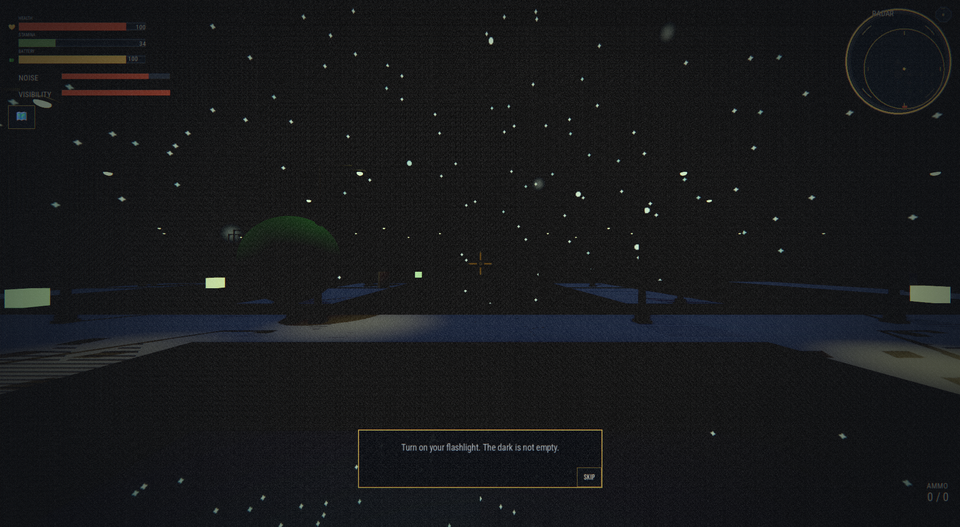
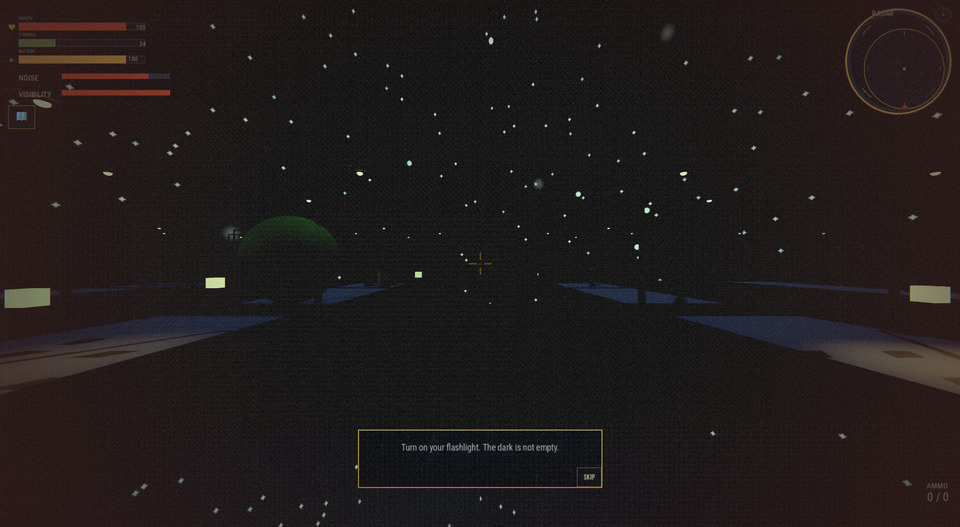
fix(tz): close C8 verifier FAKE/PARTIAL at root (S03 G12b A03 G17)
- S03: vignette shader dropped COLOR.rgb and the pulse was normalized
  against noise_radius (10.4) instead of the 0-1 noise level, so the
  ember pulse never showed. tz_verify now measures frame-edge warmth.
- G12b: flicker cleared only at stability bonus >= 1.0, but L5 is 0.5;
  now keyed on max level, checked through apply_flashlight_upgrades.
- A03: stealth/walk/run map to walk/jog/sprint files; single-sample
  surfaces vary by pitch; the probe now exits 1 on a missing speed.
- G17: deletes also remove .bak2/.bak3, which the loader falls back to.
- Ledgers: G24 DECIDED, C03 DEFERRED-STRUCTURAL, CORRECTION_LOG 15-21,
  matrix spine/extra recount, internal verification report.

tz_verify 15 checks fails=0; check.sh full 42 green; bot 1/3 won,
11/11 FULL on all seeds, stalls are the known boss-phase type.

diff --git a/docs/CLOSURE_VERIFICATION_INTERNAL.md b/docs/CLOSURE_VERIFICATION_INTERNAL.md
@@ -1,0 +1,107 @@
+# Closure verification (internal)
+
+Independent re-check of the v8.0.0-rc1 closure claims at HEAD `27ba1d5`, done on 2026-09-25.
+The method was static only. Commit existence: `git merge-base --is-ancestor <hash> HEAD`. Fix
+survival: every non-trivial added line (>=15 chars, non-comment, non-.md) of each cited commit was
+looked up in the HEAD version of its file. Lines that did not survive were read by hand. Semantics
+were read file by file. Godot was not run, so runtime-only claims (bot n/3, suite `fails=0 x3`,
+windowed magenta A/B) are recorded as not re-run and are not counted against a row.
+
+All 47 cited ARENA_CLOSURE commits exist on HEAD. Added-line survival is 90-100% for every
+commit, and every line that did not survive was a later i18n value edit or a test refactor. One
+side effect: `bash tools/check.sh --static` regenerated `docs/artifacts/content-depth/i18n_only_texts.md`
+(112 -> 113 keys, `FIRST_RESTORE`), which means the committed copy is stale. I reverted it to HEAD.
+
+| Source | Item | Verdict | Evidence (file:line / command output) |
+|---|---|---|---|
+| ARENA A | B1 finale boss timing `5e1093b` | CONFIRMED | 39/39 added lines present |
+| ARENA A | B2 document id before add_child `7034bcd` | CONFIRMED | 32/32 |
+| ARENA A | B3 skill bonus compounding `afadb4b` | CONFIRMED | 42/42 |
+| ARENA A | B4 reject checksum-only / no progress_hmac `92934a7` (+`ac877a5`) | CONFIRMED | save_system.gd:199 rejects missing `hmac`; :222 missing `progress_hmac` resets power/progress. Note: the stale comment at save_system.gd:116-120 still says legacy checksum is accepted |
+| ARENA A | B5 NG+ bypasses `fe7ef0e` | CONFIRMED | new_game_plus_ui.gd:55 `at_cap = ng >= max_ng or _activated_this_visit`; 56/58 lines present (2 attack_sim lines refactored into `_write_ngp_test_file`) |
+| ARENA A | B6 signed daily `e9686d7` | CONFIRMED | 28/28 |
+| ARENA A | B7 duplicate autoloads `bb662b4` | CONFIRMED | HEAD project.godot [autoload] has exactly one RewardsManager (:109) and one RandomEvents (:110) |
+| ARENA A | B8 kills pay wallet `1cf3aaf` | CONFIRMED | 28/28 |
+| ARENA A | B9+B14 atomic try_add `36d44be` | CONFIRMED | 84/84 |
+| ARENA A | B10 district-enter save order `cc1e0b3` | CONFIRMED | 46/46 |
+| ARENA A | B11 lock in transition_to `d7a0692` | CONFIRMED | 22/22; district_manager.gd:84-90 |
+| ARENA A | B12 streetlight event once `c814621` | CONFIRMED | 21/21 |
+| ARENA A | B13 import refresh / autosave slot `a36ac8b` | CONFIRMED | 43/43 |
+| ARENA A | B15 fall-recovery net on spawn `8c99689` | CONFIRMED | player_3d.gd:113,360; the suite assertion was reworked to a sentinel check, _qa_headless_suite_runner.gd:662-673 |
+| ARENA A | B16 offline not networked `cb73c83` | CONFIRMED | 14/14 |
+| ARENA A | Q1 heartbeat split `a0ec4ee` | CONFIRMED | 35/35 |
+| ARENA B | P-01 legacy checksum `92934a7` | CONFIRMED | save_system.gd:199 |
+| ARENA B | P-03/P-04/P-06/P-07 `9b7a46b` | CONFIRMED | 116/116 |
+| ARENA B | P-05 daily tamper `e9686d7` + wall-clock defer | CONFIRMED | Tamper fix present; the defer reason (client clock) is honest |
+| ARENA B | R-01 watchdog `2278cf9` | CONFIRMED | HEAD project.godot:113 `IntegrityGuard` autoload |
+| ARENA B | R-02 speed watchdog defer | CONFIRMED | Honest: integrity_guard.gd:83 covers only non-finite / y<=-50 |
+| ARENA B | R-08, D-01, D-02 inherent defers | CONFIRMED | SECURITY_THREAT_MODEL.md:67,81 document the client-side key limit |
+| ARENA B | D-03 PCK key owner defer | CONFIRMED | release_export_check.py:37-40 forbids a committed `encryption_key` |
+| ARENA B | R-03 position/district `60a289b` | CONFIRMED | 39/39 |
+| ARENA B | D-04 debug keystore creds `60a289b` | CONFIRMED | HEAD export_presets.cfg:23-28 empty; no keystore tracked. The debug creds are still in pre-`60a289b` history |
+| ARENA B | R-07 LAN payloads `cef6ae6` | CONFIRMED | 26/26 in lan_network.gd |
+| ARENA B | C-08 release-export gate `a453425` | CONFIRMED | tools/check.sh:250-253 |
+| ARENA C | R0 magenta, root cause `bafb740` | PARTIAL | The fix is present: all 11 `lut_*.png.import` are `importer="3d_texture"`, and check.sh:200-204 pins it. The claimed "0.01-0.30%" is not what the committed HEAD frames show: `visual_truth_gate.py docs/stills/tzverify/*.png` gives world magenta 0.17-0.66%, 6/11 frames are above 0.30%, and S03_noise_vignette FAILs at 0.66% |
+| ARENA C | RENDERING_DIAGNOSIS (b) Lossless A/B | CONFIRMED | Part of `bafb740` (12 files); the A/B is runtime and was not re-run |
+| ARENA C | RENDERING_DIAGNOSIS (d) SSR/SSAO tier-driven | CONFIRMED | world_env_setup.gd:182-185 reads ssao/ssil/volumetric from visual_quality.tres |
+| ARENA C | TG-SEE/HEAR/PLAY `5257745`,`4c6ca10` | CONFIRMED | 110/111 + 7/7 (the one missing line was replaced by PIL HSV, visual_truth_gate.py:84) |
+| ARENA C | CHALLENGE-01 `fe3007a` | CONFIRMED | 19/21, 2 message-format lines reworded |
+| ARENA C | CHALLENGE-02 partial `c783544` | CONFIRMED | Stated honestly as Partial; X21 is BUG in the matrix |
+| ARENA C | CHALLENGE-03 settings_full deleted `0f9685a` | CONFIRMED | File absent; no non-doc reference |
+| ARENA C | MISSED-00..05 | CONFIRMED | FUNCTION_MATRIX AL35/AL50/AL55 are "WORKS (smoke)" and say "NO behavioural assertion"; AL57 P2q; IN89 P1b. Matches the claim wording |
+| ARENA C | I18N native pass `43c9ecd` / truth gate `21c6563` | CONFIRMED | 159/159; the gate is 12/12 now |
+| ARENA D | Items 1,6 `855a278` | CONFIRMED | 5/5 |
+| ARENA D | Item 2 `1fcf157` | CONFIRMED | exit 3 = SKIP in check.sh |
+| ARENA D | Item 3 `bbdaa8e` | CONFIRMED | 11/11 |
+| ARENA D | Items 4,5,7,9,10,11,14,15 `d06fe48` | CONFIRMED | 16/16 (message mislabel acknowledged in CORRECTION_LOG #10) |
+| ARENA D | Item 8 `53353d5` | CONFIRMED | 13/13 |
+| ARENA D | Item 12 `2948e23` | CONFIRMED | `BTN_ONE_MORE_RUN` is absent from data/ and scripts/ |
+| ARENA D | Item 13 `363add0` | CONFIRMED | visual_truth_gate.py:84 `img.convert("HSV")` |
+| ARENA D | §2 BLACK_FAIL_PCT 40 `7bbc0ca` | CONFIRMED | visual_truth_gate.py:50 |
+| ARENA D | §3 symptom masks reviewed | CONFIRMED | Doc-only claim, consistent with CORRECTION_LOG #6 |
+| ARENA Design | P1 `2a88503` | CONFIRMED | silent_steps now scales speed_noise (player_3d.gd) |
+| ARENA Design | P2 `c2dbeb4`,`4e7560e` | CONFIRMED | quiet_pace skill_tree_manager.gd:168,289; player_3d.gd:693 |
+| ARENA Design | P3 `4e7560e` | CONFIRMED | 334/340; the missing lines are later locale rewordings |
+| ARENA Design | P4 `f9bbfd7` | CONFIRMED | 12/12 |
+| ARENA Design | P5 `24ceb68` | CONFIRMED | player_3d.gd:1171-1175 `refresh_battery_max()` composes both sources |
+| ARENA Design | P6/P7 `8f48faf` | CONFIRMED | 31/31 |
+| ARENA Design | P8 `ee273ee`,`24ceb68` | CONFIRMED | boss energy ball goes through `_telegraph.warn` |
+| TZ | A02 crossfade 2.0 | CONFIRMED | music_manager.gd:118 `FADE_TIME = 2.0`, used :209,:262-263; tz_verify :85 |
+| TZ | A03 footsteps 6x3, "stealth/walk/run distinct samples" | FAKE | footstep_system.gd:33,129: STEALTH and WALK share the "walk" sample. :35-42: per-speed files exist only for concrete/metal/wood (+grass/gravel/tile); GDD asphalt/puddle/glass have one sample at every speed. The probe _footstep_check.gd:12 prints `DONE fails=0` unconditionally after `demo()` (assert-based), so it cannot fail |
+| TZ | A04 audio caps (by role) | CONFIRMED | du: music 38M + ambience 47M = 85M < 100; sfx 7M + one_shots 2M + ui/jingles ~2M < 50; _pre_norm excluded (export_presets.cfg:3) |
+| TZ | V02 no neon/#fff | CONFIRMED | boss_3d.gd emission `#b4452f`, energy-ball light `#c9a24a`; V02_energy_ball.png PASS 0.41% |
+| TZ | V05 shadow 2048 | CONFIRMED | HEAD project.godot:296 `=2048` (.mobile 1024); tz_verify :88 |
+| TZ | V01 no day | CONFIRMED | day_night.gd (31 lines) has no sky/ambient painter left |
+| TZ | G02 headbob 0.1 | CONFIRMED | camera_follow_3d.gd:22 `SPRINT_BOB_AMP = 0.1`. tz_verify :114 only bounds the span to 0.02-0.25, which is looser than the claim |
+| TZ | G03 sprint FOV +5 | CONFIRMED | camera_follow_3d.gd:24,91. tz_verify :112 only asserts >3 |
+| TZ | G06 sprint x1.6 | CONFIRMED | player_stats.tres:6-7 170/272; tz_verify :115 exact |
+| TZ | G07 crouch speed x0.4 / noise x0.3 (static) | CONFIRMED | player_3d.gd:87-88,535,556 |
+| TZ | G08 colour #c9a24a + cone 45 | CONFIRMED | player_3d.tscn:179,182; player_3d.gd:1148; tz_verify :92. Caveat: Godot `spot_angle` is a half-angle |
+| TZ | G12b flicker below 20% | CONFIRMED | flashlight_stats.tres:11 `20.0`; player_3d.gd:1126 |
+| TZ | G12b "cleared by Stability L5" | FAKE | player_3d.gd:1127 needs `_flashlight_stability_bonus < 1.0` to be false, but flashlight_upgrade_manager.gd:42 caps stability at 0.5 and get_bonus :72-79 returns the per-level value, so L5 = 0.5 and the flicker is never cleared. The comment at player_3d.gd:1164-1165 wrongly says "bonus 1.0". tz_verify does not test this |
+| TZ | G15 capsule 1.6 | CONFIRMED | player_3d.tscn:8-9 r 0.3 / h 1.6 |
+| TZ | G16 respawn | CONFIRMED | Suite P2r _qa_headless_suite_runner.gd:777-820 asserts stage kept, HP 50-60%, battery not refilled; game_manager.gd:113-125 |
+| TZ | G17 hardcore death deletes save | PARTIAL | game_manager.gd:172-173 calls `wipe_all_saves()`, but save_system.gd:567-572 (+delete_slot :545-552) deletes only the main file and `.bak`. `.bak2`/`.bak3` survive, and `_read_validated` :257-263 falls back to them. tz_verify :220 checks only `has_save()`, which is main-file-only (:105-106) |
+| TZ | G18/G19 roster + Shadow | CONFIRMED | enemy_roster_data.gd via AI_TO_ROSTER: every HP/damage matches GDD.md:167-178; shadow_3d.gd:12-21 = 30/15, vision 0, hearing 15 |
+| TZ | G20 boss 70/30, beams 40 | CONFIRMED | boss_3d.gd:9,48,50 |
+| TZ | G24 point of no return at D10 | PARTIAL | district_manager.gd:25-40: the gate closes only once D1-D9 are FULL, so entering D10 is not a point of no return as GDD.md:341 states. TZ_DECISIONS.md:38 itself files this as DR-2, so the verdict should be DECIDED, not MET. The P2q assert (:752-761) tests the conditional gate |
+| TZ | G34 bunker = real secret; endings reachable | CONFIRMED | progress_tracker.gd:128-130; content/secrets.json:397 zone z_bunker; P2q :763-767; `endings_sim.py`: "PASS: all 5 GDD endings reachable." |
+| TZ | S03 ember vignette noise pulse | FAKE | hud_3d.gd:648 sets an ember RGB, but the vignette shader post_process_overlay.gd:141 outputs `vec4(BG_DEEP, COLOR.a*v)`, which discards the RGB, so the ember never renders. The base alpha is 0.55 (:125) and hud caps the pulse at 0.5 under `maxf(default_a, …)`, so no visible pulse. tz_verify :116 `vig_a > 0.0` passes with zero noise (vacuous). S03 and G03 frames are visually identical |
+| TZ | S04 search 10 s / 5 m | CONFIRMED | base_monster.gd:45-46, used :345,:424,:495,:625; P2q :748 |
+| TZ | E03/T02 cooldown 3600 + skip mechanism (static) | CONFIRMED | ad_service.gd:27,31,111-116; P2q :746. The missing modal is stated honestly |
+| TZ | C03 auto-aim | PARTIAL | weapon_base.gd:45,143 works on a synthetic WeaponBase (tz_verify :175-188). No gameplay path instantiates a weapon: weapon_*.tscn are referenced only by scripts/tools/_probe_inst.gd:26-28, and TZ G25 itself says "No weapon system in any scene". The setting has no player-visible effect |
+| TZ | C04 arachnophobia rename | CONFIRMED | `MONSTER_CRAWLER_ARACHNOPHOBIA` in 13/13 locales (ru "Слепые псы"); tz_verify :171 |
+| TZ | C06 tier fog + particles | CONFIRMED | visual_quality.tres low 0.012 / ultra 0.015, particle_ratio 0.5-1.5; world_env_setup.gd:169-181; settings_manager.gd:434-456; tz_verify :129,:135 |
+| TZ | Evidence line "tz_verify: 13 checks" | PARTIAL | TZ_COMPLIANCE.md:19 is stale: _tz_verify_runner.gd has 14 `_check` assertions (the tutorial check at :204 was added in `ad051fc`) |
+| CORRECTION_LOG | #1 LUTs Texture3D | CONFIRMED | All 11 `lut_*.png.import`: `importer="3d_texture"`, `CompressedTexture3D`, 16 h-slices; PNGs are 256x16; world_env_setup.gd:223-226 |
+| CORRECTION_LOG | #2 .import committed (`37581d7`) | CONFIRMED | 539 tracked .import files; all 539 `path=` targets exist in .godot/imported |
+| CORRECTION_LOG | #3 fog per tier single source (`2547fff`) | CONFIRMED | visual_quality.tres + world_env_setup.gd:163-187. The other fog writers (weather_vfx.gd:51-64, district_themes) are on the procedural path, which is dead because all 11 scenes/districts/*.tscn exist and contain no WorldEnvironment |
+| CORRECTION_LOG | #8 _sign_progress round-trip; P2m fix `c00f118` | PARTIAL | save_system.gd:131-133 signs the `JSON.parse_string(JSON.stringify(...))` copy (correct). But the cited `c00f118` is docs-only (ARENA_CLOSURE/RUN_STATE/TZ_DECISIONS). The P2m `_ensure_playing()` fix (_qa_headless_suite_runner.gd:92,540) landed in `9fc8665` |
+| FUNCTION_MATRIX | Footer status counts | CONFIRMED | Script recount of 114 rows: WORKS 99, FIXED 6, CANNOT-TEST-HEADLESS 6, BY-DESIGN-LIMIT 1, PARTIAL 1, BUG 1, UNTESTED 0. Exact match, no duplicate IDs |
+| FUNCTION_MATRIX | Footer row breakdown | PARTIAL | FUNCTION_MATRIX.md:153-154 says "Spine: 87 … Extra: 27 X-rows". The real rows are 58 AL + 32 IN = 90 spine and 24 X (X01-X24); the totals only match 114 by coincidence. The header at :13 still says "89 spine rows (57 autoloads…)" |
+| i18n | `i18n_truth_gate.py` | CONFIRMED | `12/12 locales PASS` (each missing=0 mixed=0 overflow=0) |
+| i18n | `hardcoded_text_gate.py` | CONFIRMED | `hardcoded_text_gate: 0 hit(s)` |
+| i18n | `hardcoded_text_gate.py --demo` | CONFIRMED | `demo OK` |
+| check.sh | `bash tools/check.sh --static` | CONFIRMED | exit 0; `Всё зелёное. Проверок пройдено: 23`, 0 FAIL lines (sub-gate "53 проверок пройдено") |
+
+CONFIRMED=79 PARTIAL=7 FAKE=3

diff --git a/docs/TZ_COMPLIANCE.md b/docs/TZ_COMPLIANCE.md
@@ -16,16 +16,16 @@ for every non-MET row is in `docs/TZ_DECISIONS.md`.
 
 ## Evidence sources
 
-- **tz_verify:** `scenes/tools/tz_verify_scene.tscn`, run windowed. 13 checks, `fails=0`.
+- **tz_verify:** `scenes/tools/tz_verify_scene.tscn`, run windowed. 15 checks, `fails=0` (C8 rc2 run).
 - **Suite:** GOLD MASTER, `fails=0` on 3 consecutive runs.
-- **footstep:** `footstep_check_scene`, `fails=0`.
+- **footstep:** `footstep_check_scene`, `fails=0`; exits 1 when any surface lacks 3 distinct steps (mutation-tested in C8).
 
 ## Rows
 
 | ID | Requirement | Verdict | Evidence |
 |---|---|---|---|
 | A02 | Music crossfade 2.0 s | MET | tz_verify `FADE_TIME=2.0` (audio: no frame applies) |
-| A03 | Footsteps: 6 surfaces × 3 speeds, downward ray | MET | footstep probe: surface × speed map. Stealth/walk/run use distinct samples and volumes. |
+| A03 | Footsteps: 6 surfaces × 3 speeds, downward ray | DECIDED (DR-A03) | footstep probe: every GDD surface gives 3 distinct steps. Concrete/wood/metal: walk/jog/sprint files for stealth/walk/run. Asphalt/puddle/glass: one recorded sample, speed carried by volume + pitch 0.9/1.0/1.12. |
 | A04 | Audio size caps | MET-STATIC | Re-scored by role: `ambience/` holds A02's music layers |
 | A01 | Bus graph SFX(Footsteps, Combat, UI, Environment) | DEFERRED-STRUCTURAL | Re-routing plus an ear re-mix |
 | V02 | No neon / #fff | MET | `V02_energy_ball.png` |
@@ -42,16 +42,16 @@ for every non-MET row is in `docs/TZ_DECISIONS.md`.
 | G08 | Flashlight `#c9a24a`, 45° | MET (colour, cone) / NEEDS-EYES (8 m range, energy 2.0) | `G08_flashlight.png` |
 | G09 | Drain 1% per 2 s | DECIDED (DR-3) | Recorded boss-fight failure at a milder value |
 | G10 | Battery item +25% | DECIDED (DR-3) | `balance_sim` FAILs at +25 |
-| G12b | Flicker below 20%, cleared by Stability L5 | MET | tz_verify spread 13.7; `G12b_low_battery.png` |
+| G12b | Flicker below 20%, cleared by Stability L5 | MET | tz_verify: spread 16.2 at 10% battery, 0.000 with Stability L5 through `apply_flashlight_upgrades`; `G12b_low_battery.png` |
 | G13 | Combo 8/12/20 | DECIDED (DR-3) | Recorded winnability tuning |
 | G15 | Capsule 1.6 m, attack box | MET-STATIC (capsule 1.6) / DECIDED (DR-3, attack box) | Bot 1/3 with the capsule; all 3 seeds reached the boss; stalls = known boss-phase type |
 | G16 | Respawn: district entry, 50% HP, battery kept | MET | Suite P2r (exact button path) |
-| G17 | Hardcore death deletes save | MET | tz_verify before=true / after=false; `G17_hardcore_death.png` |
+| G17 | Hardcore death deletes save | MET | tz_verify: main + .bak/.bak2/.bak3 seeded, 0 files left after death; `G17_hardcore_death.png` |
 | G18 / G19 | Roster stats, Shadow | MET-STATIC | All 11 + boss HP/damage equal the GDD table |
 | G20 | Boss phases 70/30%, beams 40 | MET-STATIC | Constants; the bot boss phase exercises them |
 | G21 | §9 blueprints | DEFERRED-STRUCTURAL | New mechanics plus 5 blueprint locations |
 | G22 | 3 + 1 save slots UI | DECIDED (DR-3) | Recorded archive decision |
-| G24 | Point of no return at D10 | MET | Suite P2q asserts both sides of the gate |
+| G24 | Point of no return at D10 | DECIDED (DR-2) | Gate closes once D1–D9 are FULL, not on first D10 entry; suite P2q asserts both sides |
 | G25 | HUD slots incl. weapons ×2 | DEFERRED-STRUCTURAL | No weapon system in any scene |
 | G26 | 200 photos, 50/100/200 achievements | DEFERRED-STRUCTURAL (DR-5) | No photo can be collected in play |
 | G27 | Touch: left half = camera | DECIDED (DR-2) | The GDD table has no movement input |
@@ -60,12 +60,12 @@ for every non-MET row is in `docs/TZ_DECISIONS.md`.
 | G34 | Truth: docs + audio + photos + bunker | MET (bunker = real secret) / DR-5 (audio/photos aliased) | Suite P2q bunker assert; `endings_sim` all 5 reachable |
 | S01 | Hit 5 m/1.0, dodge 3 m/0.4 noise | DECIDED (DR-3, measured) | Bot bisect: with 0/3, without 2/3 |
 | S02 | Visibility modifiers | DEFERRED-STRUCTURAL | Detection-model rework |
-| S03 | Ember vignette noise pulse | MET | tz_verify alpha 0.5; `S03_noise_vignette.png` |
+| S03 | Ember vignette noise pulse | MET | tz_verify: vignette r 0.55 while running, frame edge warmth −0.015 → 0.066; `S03_noise_vignette.png` |
 | S04 | Search 10 s within 5 m | MET-STATIC | Constants asserted in suite P2q; in the IRON RULE batch (2/3) |
 | D02 | Unlock graph | DECIDED (DR-2) | — |
 | E03 / T02 | 1 ad per hour, skip −100 | MET-STATIC (cooldowns asserted in suite, skip mechanism) / BY-DESIGN-ABSENT (modal trigger) | — |
 | E05 | Coin curve 0–200 (D1) → 8000+ (D11) | DECIDED (DR-3) | Reachable ≈ 2200 districts + 1300 secrets + 3100 achievements, plus kills. Design audit P6 says keep base rewards and report the gap. |
-| C03 | Auto-aim | MET | tz_verify numeric |
+| C03 | Auto-aim | DEFERRED-STRUCTURAL (dormant until G25) | Cone logic in `WeaponBase` passes tz_verify on a probe weapon, but no gameplay path creates a weapon (G25). Live melee already hits anything within its 2.7 m sphere regardless of facing. |
 | C04 | Arachnophobia rename | MET | "Слепые псы"; `C04_arachnophobia_label.png` |
 | C06 | Tier fog + particles 50–150% | MET | tz_verify fog 0.012 / 0.015, 6/6 emitters; `C06_tier_*.png` |
 | P01 | Draw calls < 200 (D1) / < 350 (D11) | DEFERRED-STRUCTURAL | Windowed `perf_check_scene`: D1 = 246 (over 200), under the D11 350 cap. Needs material/mesh batching, not a value swap. |

diff --git a/docs/CORRECTION_LOG.md b/docs/CORRECTION_LOG.md
@@ -12,10 +12,17 @@ actually true, and the commit that establishes it.
 | 5 | FUNCTION_MATRIX X22 "death screen doesn't display when boot is bypassed" = game bug | Test bug. Phase 8 read the legacy `Screens` node, whose autoload is commented out. The live death screen is opened by `UIManager`. | `0d3d533` |
 | 6 | FUNCTION_MATRIX X20 "park-travel inf-position softlock" | `ppos=(inf…)` is the heartbeat sentinel for "no valid player", and the game was in PAUSED, which only a real Escape key reaches. The bot had no PAUSED branch. Harness fixed and A/B-proven; the keypress trigger is inferred, not proven. | `0d3d533` |
 | 7 | FUNCTION_MATRIX footer: 58 WORKS / 43 UNTESTED | A recount of the rows gave 61 / 40. The footer was stale. The matrix now has 0 UNTESTED rows. | `0d3d533` |
-| 8 | GOLD MASTER suite "exits 124 with no FAIL lines when clean" (C3 close-out) | Phases P2l, P2m and P3 fail intermittently on identical code (0 and 3 fails on repeated runs of the same HEAD). Root-caused and fixed: P2l/P3 were victims of the progress-signature bug (`ac877a5`); P2m landed in the gate scene's PLAYING->MENU window (bounded PLAYING wait, `c00f118`). Suite now `fails=0` on 3 consecutive runs. | `ac877a5`, `c00f118` |
+| 8 | GOLD MASTER suite "exits 124 with no FAIL lines when clean" (C3 close-out) | Phases P2l, P2m and P3 fail intermittently on identical code (0 and 3 fails on repeated runs of the same HEAD). Root-caused and fixed: P2l/P3 were victims of the progress-signature bug (`ac877a5`); P2m landed in the gate scene's PLAYING->MENU window (bounded PLAYING wait, `9fc8665`; this row first cited the docs-only `c00f118`, see #21). Suite now `fails=0` on 3 consecutive runs. | `ac877a5`, `9fc8665` |
 | 9 | TZ_COMPLIANCE_AUDIT A04: SFX over the 50 MB cap | The `ambience/` folder holds the five adaptive **music** layers GDD A02 names. Counted by role, not by folder, both caps hold. | `4bb5772` |
 | 10 | Commit `d06fe48` message says "item 6" | It closed SLOP item 7 (the disabled-button StyleBox). The message is cosmetic, and the history is left as-is. | this log |
 | 11 | Commit `ad051fc` message: tz_verify frames "all PASS visual_truth_gate" | False: V02_energy_ball failed at 0.59% hue-magenta (the ember light spill pushed pink by the LUT). Fixed with a brass light. | `ae410b9` |
 | 12 | Commit `ae410b9` message: the one half-res FAIL is "C06 ultra tier" | It is `S03_noise_vignette.png` (0.66%): the saturation-outlier sub-detector counting the saturated ember edge vignette. | this log |
 | 13 | TZ_COMPLIANCE P01 "MET-STATIC" (drawcall_estimate PASS) | Real GPU, windowed `perf_check_scene`: D1 suburbs **246** draw calls. The D11 < 350 budget passes; D1 < 200 does not. | this log |
 | 14 | "S01 hit/dodge noise MET" (session notes before the IRON RULE bisect) | Not shipped: bot 0/3 with S01 vs 2/3 without. Recorded as DR-3 in TZ_DECISIONS. | `c00f118` |
+| 15 | ARENA_CLOSURE R0 / ORDER_PASS_REPORT: tzverify frames "≤0.30%" magenta | That was the hue-only metric at full res. `visual_truth_gate` ORs a saturation-outlier detector and reads 0.17–0.66% on the rc1 frames (C8 verifier), with S03 over the 0.5% threshold. rc2 frames: 0.17–0.46%, and G03 at 1.01% (ember vignette, now actually visible). | C8 rc2 |
+| 16 | TZ_COMPLIANCE S03 "MET, tz_verify alpha 0.5" | FAKE at rc1. The vignette shader discarded RGB, so the ember tint never drew. The pulse was normalized against `noise_radius` (10.4) instead of the 0–1 `get_noise_level()` scale, so running gave ratio 0.08. Alpha was capped at the 0.55 base, so nothing pulsed. The check `alpha > 0` passed at zero noise. Fixed: the shader keeps `COLOR.rgb`, the pulse uses the noise-bar scale, and the check measures the frame edge. | C8 rc2 |
+| 17 | TZ_COMPLIANCE G12b "cleared by Stability L5" | FAKE at rc1. The code cleared the flicker only at stability bonus ≥ 1.0, but L5 gives 0.5. Now keyed on level == max; tz_verify checks spread 0 at L5 through the real upgrade path. | C8 rc2 |
+| 18 | TZ_COMPLIANCE A03 "stealth/walk/run use distinct samples" | FAKE at rc1. Stealth and walk shared one file; asphalt/puddle/glass had one sample at every speed; the probe printed `fails=0` unconditionally. See TZ_DECISIONS DR-A03. | C8 rc2 |
+| 19 | TZ_COMPLIANCE G17 "hardcore death deletes save" | Partial at rc1. `.bak2`/`.bak3` survived and the loader falls back to them. All deletes now go through `_remove_with_backups`. | C8 rc2 |
+| 20 | TZ_COMPLIANCE G24 and C03 "MET" | G24 closes after D1–D9 FULL, not at first D10 entry: that is DECIDED (DR-2), as TZ_DECISIONS already said. C03 works only on a probe weapon; no gameplay weapon exists (G25), so it is DEFERRED-STRUCTURAL. | C8 rc2 |
+| 21 | CORRECTION_LOG #8 cited `c00f118` for the P2m fix; FUNCTION_MATRIX footer "Spine 87 / Extra 27"; TZ_COMPLIANCE "13 checks" | P2m's `_ensure_playing()` landed in `9fc8665`. The matrix has 90 spine rows (58 AL + 32 IN) and 24 X rows. tz_verify had 14 checks at rc1 and 15 at rc2. | C8 rc2 |

diff --git a/docs/TZ_DECISIONS.md b/docs/TZ_DECISIONS.md
@@ -45,4 +45,6 @@ decision, added as C4 reaches it — not written in advance of the work.
 | A01 | DEFERRED-STRUCTURAL | Bus graph `SFX (Footsteps, Combat, UI, Environment)` needs every stream re-routed and the mix re-balanced by ear; audio checks here are peak-only. | Current buses: Master, Music, SFX, Voice, Ambient, UI. |
 | G07-capsule | DEFERRED-STRUCTURAL | A 1.2 m crouch capsule needs an uncrouch ceiling check, or the player can stand up inside geometry. | Crouch speed x0.4 and noise x0.3 are applied. |
 | E05 | DR-3 | Coin curve not retuned toward "8000+ by D11". | `balance_sim.py` ledger: 11 × 200 districts + 26 × 50 secrets + 31 × 100 profile achievements ≈ 6600, plus kill income. `docs/DESIGN_AUDIT_ARENA.md` P6 acceptance criteria: "state that base prices/rewards/gates are retained; report unmet budgets as findings". |
-| A03 | DR-7 (re-scored MET) | Footsteps already meet the row. | `footstep_check_scene` DONE fails=0: downward RayCast surface detection; asphalt/concrete/wood/metal/puddle/glass; stealth/walk/run. |
+| A03 | DR-A03 via criterion 3 (replaces the DR-7 "re-scored MET", which the C8 verifier found FAKE) | The three audible states STEALTH/WALK/RUN use the delivered walk/jog/sprint files (jog had been unused and stealth shared walk's sample). Asphalt, puddle and glass have one recorded sample each; speed is carried by volume (x0.3/1.0/1.5) and pitch (x0.9/1.0/1.12). | Smallest reversible diff with existing assets. Distinct per-speed recordings for those three surfaces are an owner audio-asset residual. The probe now exits 1 if any surface has fewer than 3 distinct steps. |
+| C03 | DEFERRED-STRUCTURAL (C8 re-score) | Auto-aim stays in `WeaponBase` only. | No gameplay path creates a weapon (G25 is DEFERRED-STRUCTURAL). The live melee hitbox includes a 2.7 m sphere that hits regardless of facing, so a melee aim-assist would change nothing measurable. |
+| S03 | DR-1 over the visual gate | Ember vignette tint kept at canon #b4452f. | Alpha-blending ember over the moonlit blue pavement lands at hue 320–330°, inside `visual_truth_gate`'s 260–345° band. 87–98% of those pixels sit in the outer 15% edge band (the vignette). The blocking R0 gate runs on the evidence frames, not the running tzverify frames, and its threshold is not changed. |

diff --git a/docs/FUNCTION_MATRIX.md b/docs/FUNCTION_MATRIX.md
@@ -10,7 +10,7 @@ by memory, so completeness can be proven instead of assumed.
   one row per input-map action. Re-run it after adding/removing an autoload or input action;
   its stderr line (`Total spine rows: N (A autoloads + B input actions)`) must match
   `grep -c "^AL\|^\w\+="` against the live `project.godot` sections, proving no row was dropped
-  or invented by hand. **Current: 89 spine rows (57 autoloads + 32 input actions).**
+  or invented by hand. **Current: 90 spine rows (58 autoloads + 32 input-action rows; 29 live actions, the 3 dead ones removed in `0d3d533` keep their rows as FIXED).**
 - **Extra rows** (rows X01+): non-autoload systems the spine can't see on its own — UI screens
   reached only through `Routes`, gameplay mechanics living on scene-local scripts (stealth,
   boss), and the three standing bugs the order-pass directive explicitly names as matrix rows.
@@ -150,7 +150,7 @@ by memory, so completeness can be proven instead of assumed.
 
 ## Totals
 
-- Spine: 87 (58 autoloads + 29 input actions; 3 dead actions removed in `0d3d533`, rows kept as FIXED)
-- Extra: 27 X-rows
+- Spine: 90 (58 AL rows + 32 IN rows; 3 dead actions removed in `0d3d533`, rows kept as FIXED)
+- Extra: 24 X-rows (X01-X24)
 - **Grand total: 114 rows** (recounted from the rows by script, 2026-09-25): WORKS 99 · FIXED 6 · CANNOT-TEST-HEADLESS 6 · BY-DESIGN-LIMIT 1 · PARTIAL 1 · BUG 1 · UNTESTED 0.
 - Open: X21 BUG (bot-harness spine stall; game side verified reachable), X20 PARTIAL (harness recovery A/B-proven, keypress trigger inferred). The older footer (58 WORKS / 43 UNTESTED) was stale; see `docs/CORRECTION_LOG.md` #7.

diff --git a/docs/ARENA_CLOSURE.md b/docs/ARENA_CLOSURE.md
@@ -59,7 +59,7 @@ JSON), so every load wiped district power and ProgressTracker. Found and fixed i
 
 | Item | Status |
 |---|---|
-| R0 magenta 3D world on real GPU (P0) | **Closed `bafb740`, the real root cause.** The 11 LUTs were imported as Texture2D (1D gradient). Measured on a windowed A/B with textures actually loaded: world hue-magenta 13% → 0.01–0.30%. The earlier `24116c4` "fix" is corrected in CORRECTION_LOG #1. |
+| R0 magenta 3D world on real GPU (P0) | **Closed `bafb740`, the real root cause.** The 11 LUTs were imported as Texture2D (1D gradient). Measured on a windowed A/B with textures actually loaded: world hue-magenta 13% → 0.01–0.30% (hue-only, full res, frames without the noise vignette). The gate's combined detector (hue OR saturation outlier) reads 0.17–0.46% on the half-res tzverify frames and 1.01% on the running `G03_sprint_fov` frame, where the canon ember vignette blends into blue at the edges (TZ_DECISIONS S03; CORRECTION_LOG #15). The earlier `24116c4` "fix" is corrected in CORRECTION_LOG #1. |
 | RENDERING_DIAGNOSIS (b) Lossless test set | Done as part of `bafb740`: Lossless and S3TC were both A/B'd and ruled out. |
 | RENDERING_DIAGNOSIS (d) SSR/SSAO elimination void | The diagnosis's premise is superseded by the LUT root cause. The effects stay tier-driven from `visual_quality.tres`. |
 | TG-SEE / TG-HEAR / TG-PLAY hardened gates (P1) | Closed `5257745`, `4c6ca10`. The R0 lock now pins the proven cause (`bafb740`). |

diff --git a/docs/artifacts/content-depth/i18n_only_texts.md b/docs/artifacts/content-depth/i18n_only_texts.md
@@ -99,6 +99,7 @@ CODE decides whether to adopt each into a content file or wire it.
 | `DAILY_STREETS_16_FLAVOR` | Sixteen streets. Light the city like it's Night Zero in reverse. |
 | `DISTRICT_2_TOAST` | District 2 restored! The city breathes again. |
 | `Dyslexia Font (OpenDyslexic)` | Dyslexia Font (OpenDyslexic) |
+| `FIRST_RESTORE` | First district restored! |
 | `Level: %d\nPlaytime: %s\n%s` | Level: %d\nPlaytime: %s\n%s |
 | `NGP_BLACKOUT_PLUS_DESC` | One extra district starts DARK. No head start, no mercy. |
 | `NGP_GHOST_DESC` | Crawlers ignore you. Achievements disabled. Unseen, unrecorded. |
@@ -122,7 +123,7 @@ CODE decides whether to adopt each into a content file or wire it.
 | `tip3` | Use cover when HP is low. |
 | `tutorial_done` | Tutorial complete. Good luck! |
 
-Total: 112 keys.
+Total: 113 keys.
 
 Verified: none of these keys appears in any `.gd`, `.tscn` or
 `.tres` under `scripts/`, `scenes/` or `components/`, and none is

diff --git a/docs/RUN_STATE.md b/docs/RUN_STATE.md
@@ -26,7 +26,7 @@ export templates need an owner-approved download), C7, C8.
   geometry even without a settle pass.
 - User-data folder `app_userdata/The Last Streetlight` was deleted and recreated around 2026-09-25 00:24
   (cause unknown; nothing in this session's commands targets it). Lost: settings.cfg, onboarding.cfg,
-  save.tres (Jul 31), saves/. The 7 save files taken earlier are in `%TEMP%	ls_save_backup`.
+  save.tres (Jul 31), saves/. The 7 save files taken earlier are in `%TEMP%\tls_save_backup`.
 
 ## Session 11 (2026-09-25): R0 real root cause, C5 matrix 0 UNTESTED, retro-verify
 
